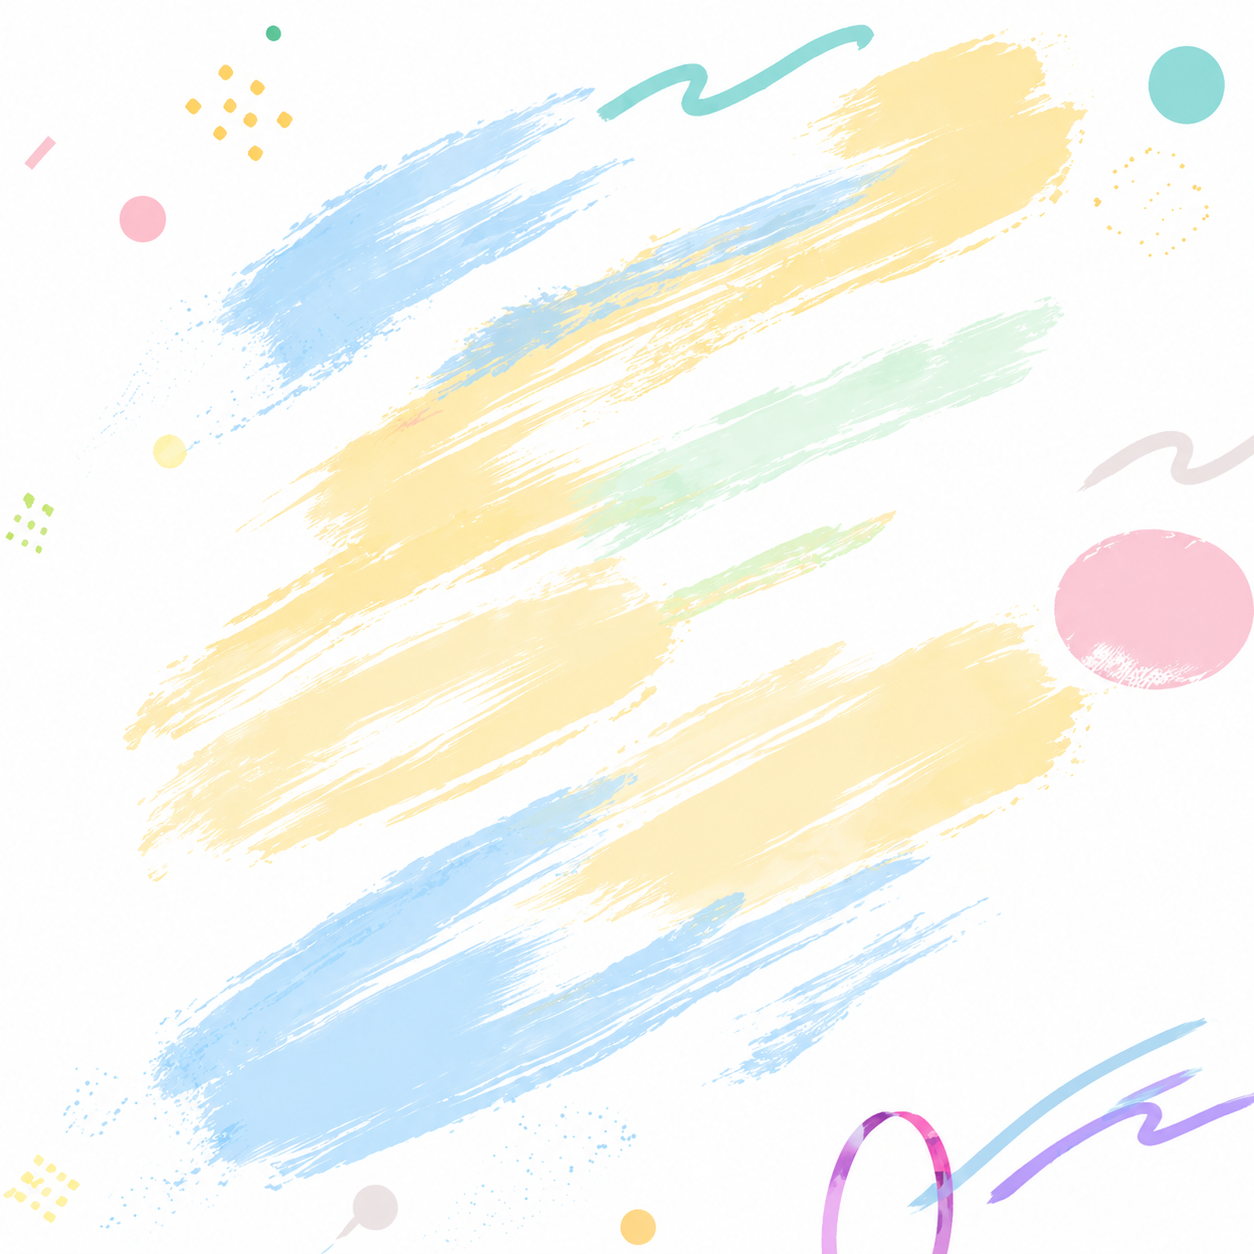
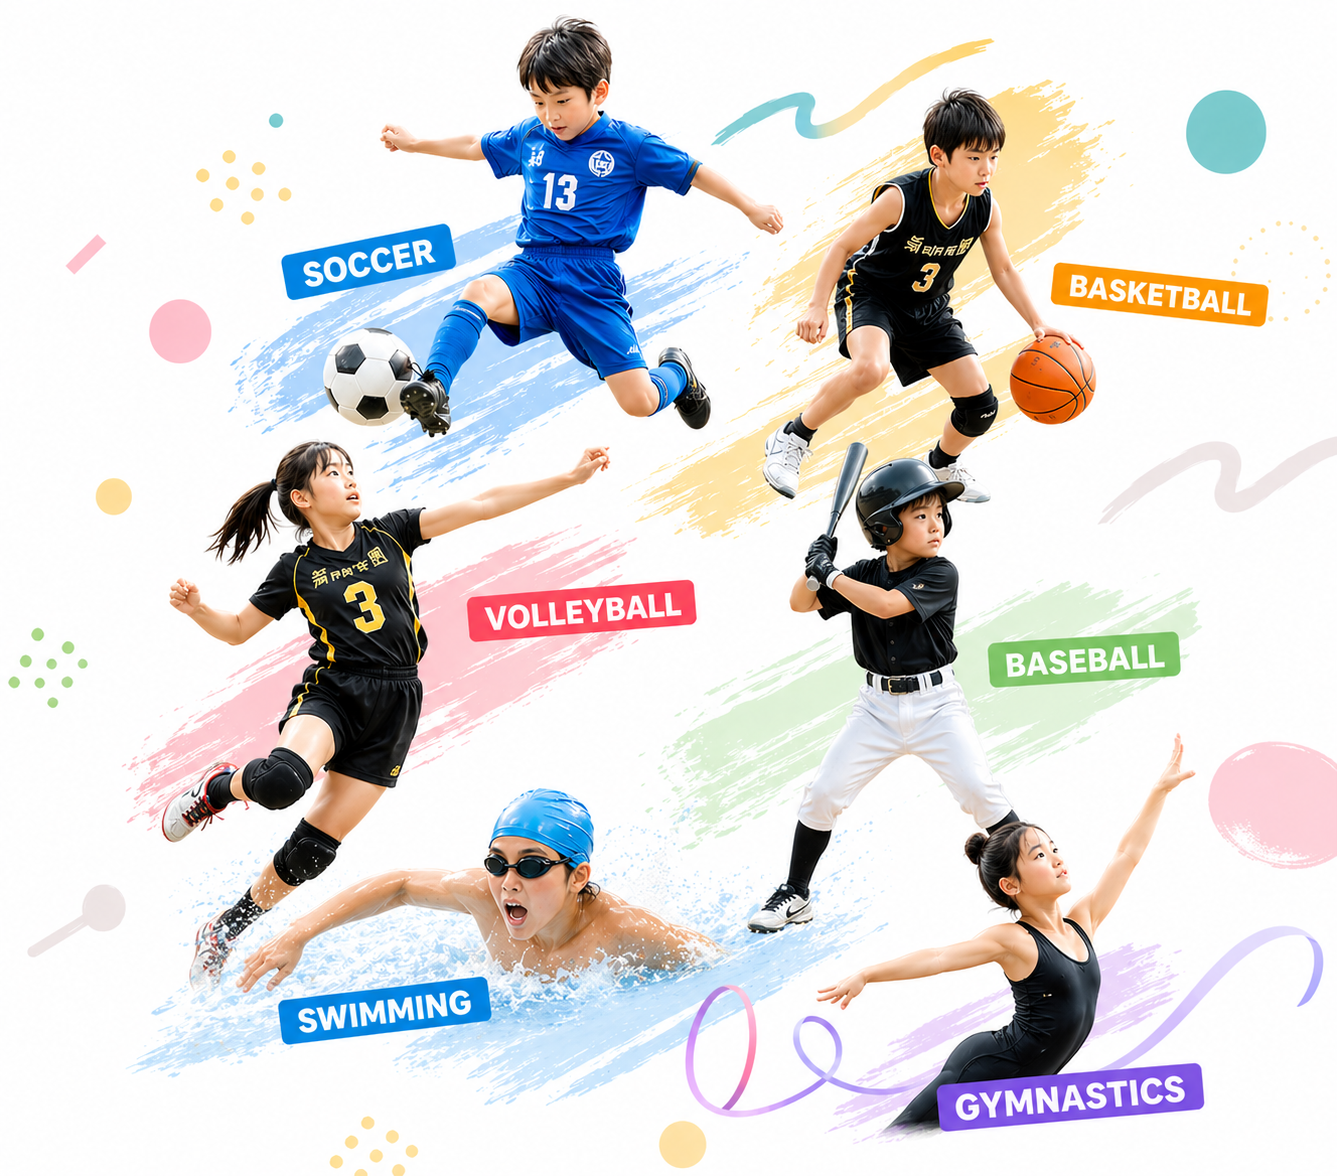
ヒーローセクションにアスリート画像・ラベル復活・背景画像と合成

diff --git a/team-lp.html b/team-lp.html
@@ -202,10 +202,47 @@
   .hero-collage > *{position:relative;z-index:1}
   .hero-collage .bg-hero{
     position:absolute;z-index:0;pointer-events:none;
-    top:50%;left:50%;
-    transform:translate(-50%,-50%);
+    top:0;left:0;
     width:100%;height:100%;
     object-fit:contain;
+  }
+  .hero-collage .athlete{
+    position:absolute;
+    filter:drop-shadow(0 8px 14px rgba(0,40,80,.10));
+    z-index:2;
+  }
+  .hero-collage .label{
+    position:absolute;
+    font-family:"Zen Maru Gothic",sans-serif;
+    font-weight:900;
+    font-size:13px;
+    padding:5px 14px;
+    border-radius:999px;
+    color:#fff;
+    box-shadow:0 3px 8px rgba(0,0,0,.18);
+    letter-spacing:.06em;
+    z-index:3;
+  }
+  /* athlete positions */
+  .a-soccer{top:0%;left:14%;width:36%}
+  .a-basket{top:0%;right:0%;width:34%}
+  .a-volley{top:32%;left:0%;width:34%}
+  .a-baseball{top:30%;right:10%;width:32%}
+  .a-swim{top:56%;left:10%;width:38%}
+  .a-gym{top:52%;right:2%;width:34%}
+
+  .l-soccer{top:6%;left:10%;background:var(--blue);transform:rotate(-6deg)}
+  .l-basket{top:4%;right:2%;background:var(--orange);transform:rotate(5deg)}
+  .l-volley{top:44%;left:14%;background:var(--pink);transform:rotate(-5deg)}
+  .l-baseball{top:42%;right:6%;background:var(--green);transform:rotate(4deg)}
+  .l-swim{bottom:16%;left:10%;background:var(--teal);transform:rotate(-4deg)}
+  .l-gym{bottom:18%;right:14%;background:var(--purple);transform:rotate(3deg)}
+  .l-and-more{
+    bottom:2%;right:4%;
+    background:transparent;color:var(--ink);
+    font-size:20px;font-style:italic;font-weight:800;
+    box-shadow:none;transform:rotate(-3deg);
+    padding:0;
   }
 
   /* hero deco shapes */
@@ -648,6 +685,18 @@
 
     <div class="hero-collage">
       <img class="bg-hero" src="assets/hero_back.png" alt="" />
+      <img class="athlete a-soccer" src="assets/athlete_soccer.png" alt="" />
+      <span class="label l-soccer">SOCCER</span>
+      <img class="athlete a-basket" src="assets/athlete_basketball.png" alt="" />
+      <span class="label l-basket">BASKETBALL</span>
+      <img class="athlete a-volley" src="assets/athlete_volleyball.png" alt="" />
+      <span class="label l-volley">VOLLEYBALL</span>
+      <img class="athlete a-baseball" src="assets/athlete_baseball.png" alt="" />
+      <span class="label l-baseball">BASEBALL</span>
+      <img class="athlete a-swim" src="assets/athlete_soccer.png" alt="" style="display:none" />
+      <img class="athlete a-gym" src="assets/athlete_gymnastics.png" alt="" />
+      <span class="label l-gym">GYMNASTICS</span>
+      <span class="label l-and-more">and more!</span>
     </div>
   </div>
 </section>
